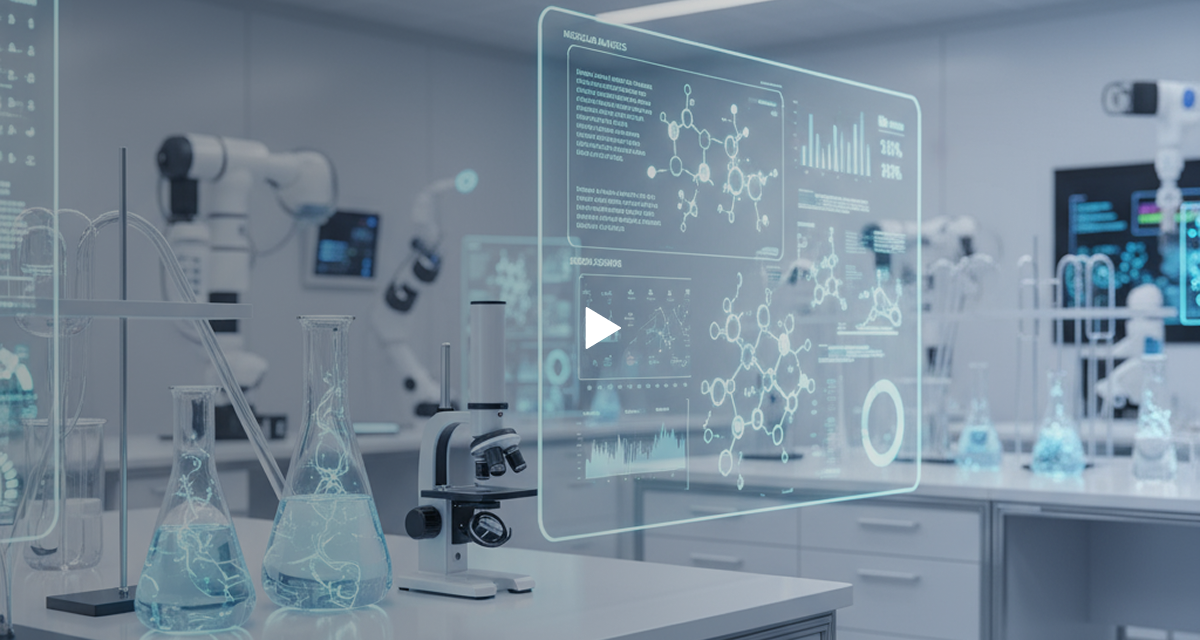
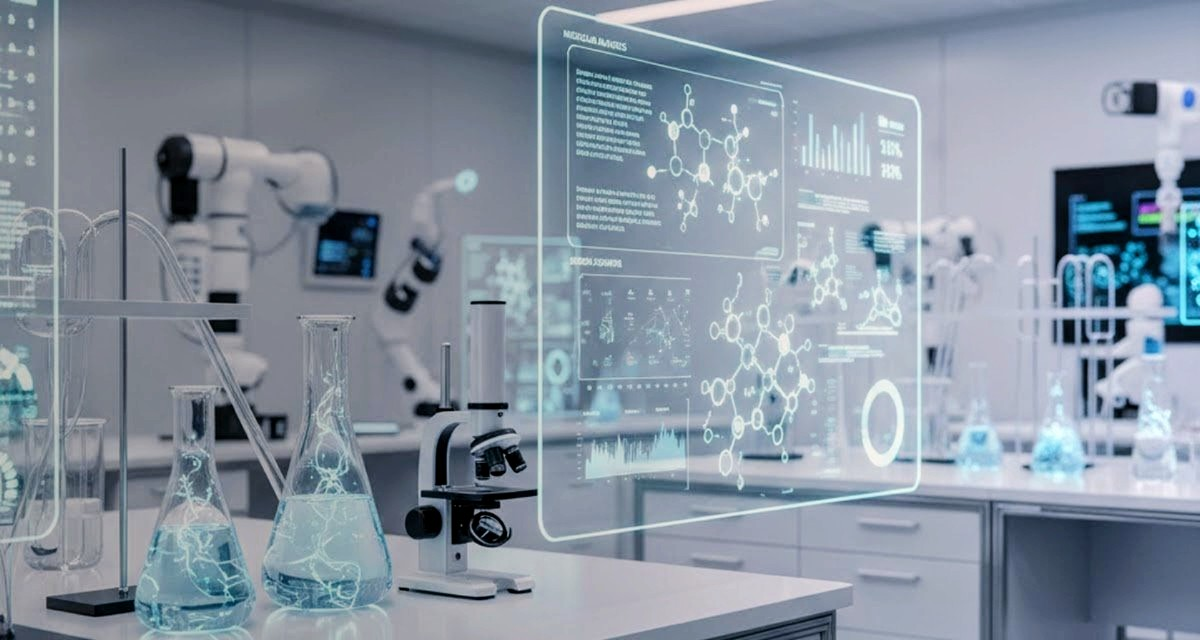
changed the meetOurteam image

diff --git a/index.html b/index.html
@@ -2,7 +2,7 @@
 <html lang="en">
   <head>
     <meta charset="UTF-8" />
-    <link rel="icon" type="image/svg+xml" href="/vite.svg" />
+    <link rel="icon" type="image/svg+xml" href="/favicon.png" />
     <meta name="viewport" content="width=device-width, initial-scale=1.0" />
     <title>Agnezar - Digital Transformation Solutions</title>
     <meta name="description" content="Transform your business with Agnezar's cutting-edge digital solutions. We deliver innovation, excellence, and results." />
